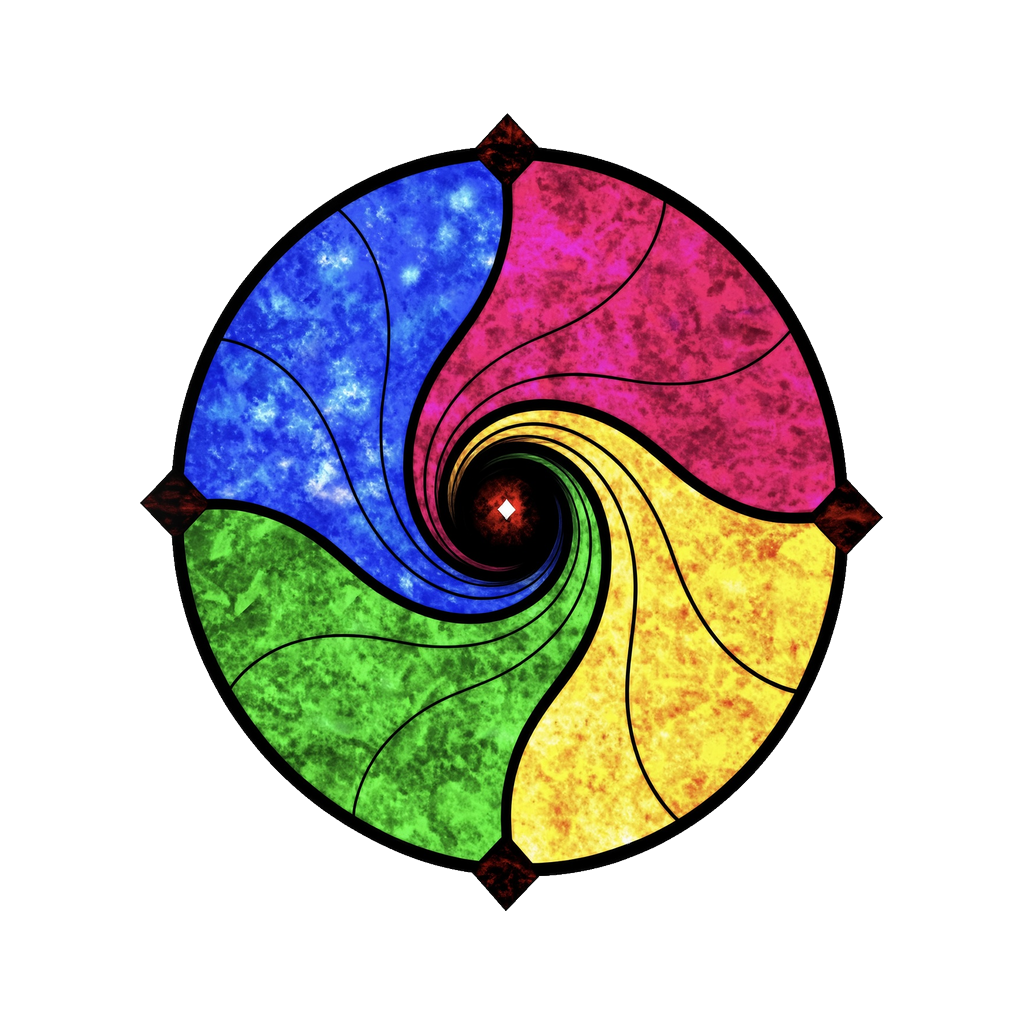
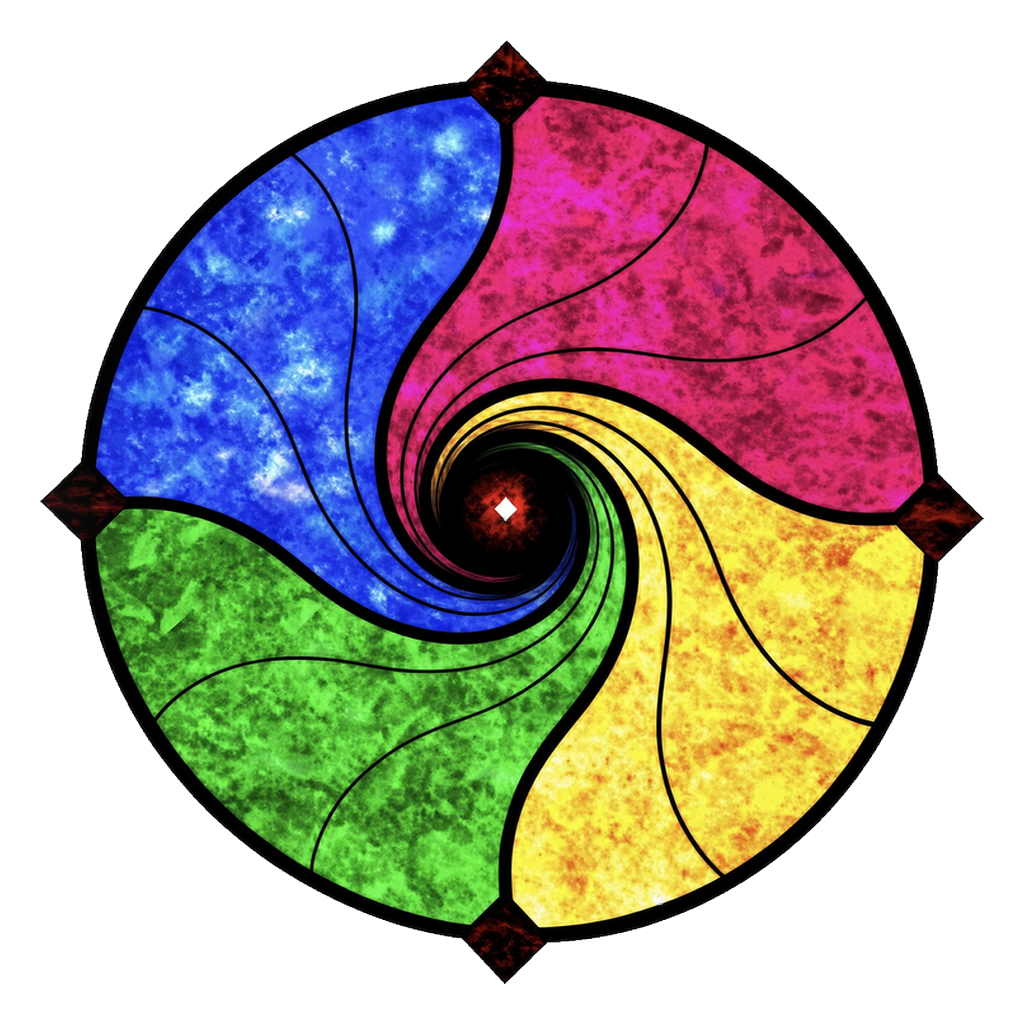
Force a true circle and make floating wheels tappable, version 1.9

diff --git a/index.html b/index.html
@@ -176,7 +176,7 @@
     box-shadow: var(--shadow); cursor: pointer;
   }
   .wcard, .fcard {
-    border: 0; background: transparent; padding: 0; box-shadow: none; cursor: pointer;
+    border: 0; background: rgba(0,0,0,0.02); padding: 0; box-shadow: none; cursor: pointer; touch-action: manipulation;
   }
   .pcard {
     position: absolute; width: 108px; height: 168px; border-radius: 10px;
@@ -189,7 +189,7 @@
   .float-stage { position: relative; height: 640px; margin: 12px 0 24px; overflow: hidden; }
   .fcard { position: absolute; width: 120px; height: 120px; }
   .mark {
-    width: 100%; height: 100%; object-fit: contain; display: block; pointer-events: none;
+    width: 100%; height: 100%; object-fit: contain; display: block; pointer-events: auto;
     transform-origin: center center;
   }
   .spinning .mark { animation: wspin 1s linear infinite; }
@@ -210,7 +210,7 @@
 </div>
 <header class="app">
     <p class="brand">Wheel of Creativity · scaffolding</p>
-    <p class="version" id="versionLabel">Version 1.8</p>
+    <p class="version" id="versionLabel">Version 1.9</p>
     <button type="button" id="refreshBtn">Refresh</button>
     <button type="button" id="themeBtn">Switch to dark mode</button>
   </header>
@@ -297,7 +297,7 @@ function startFloat(stage) {
       let y = parseFloat(card.dataset.y);
       let vx = parseFloat(card.dataset.vx);
       let vy = parseFloat(card.dataset.vy);
-      x += vx; y += vy;
+      x += vx * 0.45; y += vy * 0.45;
       if (x < 0 || x > 78) { vx *= -1; x = Math.max(0, Math.min(78, x)); }
       if (y < 0 || y > 78) { vy *= -1; y = Math.max(0, Math.min(78, y)); }
       card.dataset.x = x; card.dataset.y = y; card.dataset.vx = vx; card.dataset.vy = vy;
@@ -480,13 +480,16 @@ function render() {
         b.querySelector(".mark").style.animationDelay = (-(i * 0.35)) + "s";
         b.setAttribute("aria-label", "Catch wheel " + item.id + " " + item.challenge);
       }
-      b.onclick = () => {
+      const spinIt = (e) => {
+        if (e) e.preventDefault();
         if (state.spinning) return;
         state.spinning = true;
         b.classList.add("spinning");
         b.setAttribute("aria-label", "Spinning");
         setTimeout(() => chooseStation(item.id, "Card " + item.id + " (" + item.challenge + ")", "off"), 5000);
       };
+      b.onclick = spinIt;
+      b.ontouchstart = spinIt;
       g.appendChild(b);
     });
     if (state.design === 3) startFloat(g);
@@ -555,7 +558,7 @@ if (window.matchMedia && window.matchMedia("(prefers-color-scheme: dark)").match
 renderIndex();
 render();
 
-const APP_VERSION = "1.8";
+const APP_VERSION = "1.9";
 
 async function loadNewest() {
   if ("serviceWorker" in navigator) {

diff --git a/sw.js b/sw.js
@@ -1,4 +1,4 @@
-const CACHE = "woc-scaffolding-v11";
+const CACHE = "woc-scaffolding-v12";
 const FILES = [
   "./",
   "./index.html",
